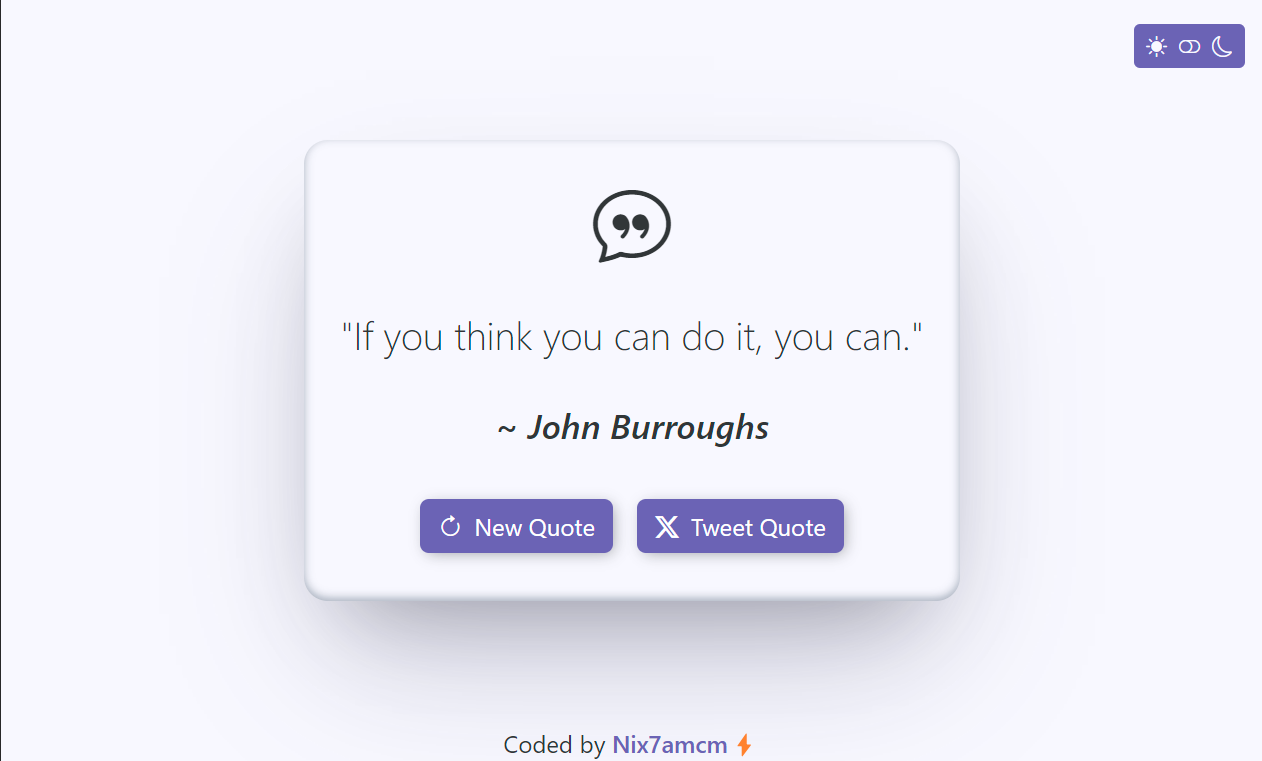
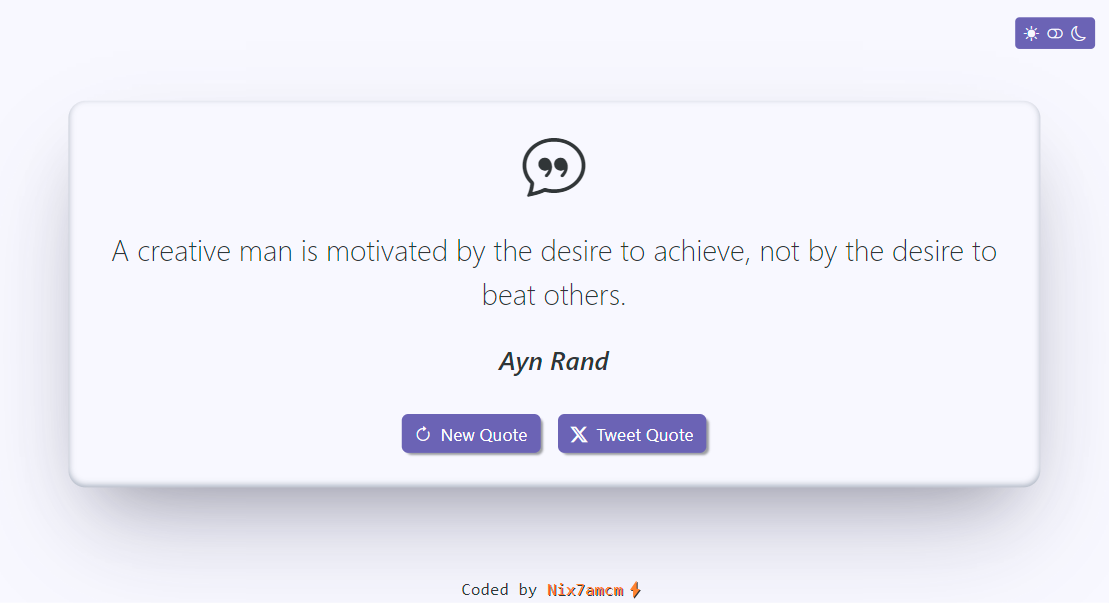
:sparkles: Add loading spinner state function; minor style updates to buttons & footer; update screenshots; remove FCC test cdn link

diff --git a/frontend/src/App.jsx b/frontend/src/App.jsx
@@ -5,8 +5,9 @@ import './styles/App.css';
 import backendURL from './backendURL';
 
 // +++ This is the parent App component that renders the entire app +++ //
-  // >>> It renders the QuoteBox component, which seperately renders the QuoteText, QuoteAuthor, and QuoteButtons components
-  // >>> It also renders the dark/light mode toggle button and the footer
+// >>> It renders the QuoteBox component, which seperately renders the QuoteText, QuoteAuthor, and QuoteButtons components
+// >>> It also renders the dark/light mode toggle button and the footer
+// >>> It passes the loading state to the QuoteText component which renders a spinner while the data is being fetched from the backend
 
 function App () {
 
@@ -14,6 +15,7 @@ function App () {
   const [ quote, setQuote ] = useState( '' );
   const [ author, setAuthor ] = useState( '' );
   const [ darkMode, setDarkMode ] = useState( false );
+  const [ loading, setLoading ] = useState( true );
 
   //_____ Check if values are being received from server:
   /* useEffect(() => {
@@ -27,10 +29,12 @@ function App () {
 
   //_____ Function to fetch a new quote from the backend:
   const fetchQuote = async () => {
+    setLoading( true );
     try {
       const res = await axios.get( backendURL + '/quotes' );
       setQuote( res.data.text );
       setAuthor( res.data.author );
+      setLoading( false );
     } catch ( error ) {
       console.error( error );
     }
@@ -45,7 +49,7 @@ function App () {
   useEffect( () => {
     //--- quote-box box-shadow
     document.documentElement.style.setProperty( '--box-shadow', darkMode ? 'var(--box-shadow-dark)' : 'var(--box-shadow-light)' );
-    
+
     //--- quote-buttons box-shadow
     document.documentElement.style.setProperty( '--quote-buttons-box-shadow', darkMode ? 'var(--quote-buttons-box-shadow-dark)' : 'var(--quote-buttons-box-shadow-light)' );
 
@@ -80,7 +84,7 @@ function App () {
 
         </button>
 
-        <QuoteBox quote={quote} author={author} newQuote={fetchQuote} />
+        <QuoteBox quote={quote} author={author} newQuote={fetchQuote} loading={loading} />
 
       </div>
 

diff --git a/frontend/src/styles/App.css b/frontend/src/styles/App.css
@@ -11,15 +11,20 @@
 /***** Root Variables *****/
 :root {
   /*_____ quote-box box shadow _____*/
-  --box-shadow-light: #32325d40 0px 50px 100px -20px, #0000004d 0px 30px 60px -30px, #0a254059 0px -2px 6px 0px inset;
-  --box-shadow-dark: #9d9dca40 0px 50px 100px -20px, #ffffff4d 0px 30px 60px -30px, #c8dff659 0px -2px 6px 0px inset;;
-  
-  /*_____ quote-buttons box shadow _____*/  
-  --quote-buttons-box-shadow-light: 2px 2px 10px -2px #31363877;  
-  --quote-buttons-box-shadow-dark: 2px 2px 10px -2px #c4c9cb77;
+  --box-shadow-light: #32325d40 0px 50px 100px -20px,
+    #0000004d 0px 30px 60px -30px,
+    #0a254059 0px -2px 6px 0px inset;
+  --box-shadow-dark: #9d9dca40 0px 50px 100px -20px,
+    #ffffff4d 0px 30px 60px -30px,
+    #c8dff659 0px -2px 6px 0px inset;
+  ;
 
-  /*_____ footer link _____*/  
-  --footer-link-color-light: #6b63b5;
+  /*_____ quote-buttons box shadow _____*/
+  --quote-buttons-box-shadow-light: 3px 3px 2px -1px #31363877;
+  --quote-buttons-box-shadow-dark: 3px 3px 2px -1px #c4c9cb77;
+
+  /*_____ footer link _____*/
+  --footer-link-color-light: #ff822e;
   --footer-link-hover-color-light: #433c87;
   --footer-link-active-color-light: #433c87;
   --footer-link-visited-color-light: #9a4eae;
@@ -78,10 +83,15 @@
 }
 
 /***** Footer *****/
+footer {
+  font-family: "Source Code Pro", monospace;
+}
+
 footer a {
-  text-decoration: none;
-  font-weight: 600;
+  /* font-weight: 600; */
   color: var(--footer-link-color);
+  text-shadow: 1px 0.5px 0px #313638;
+  text-decoration: none;
 }
 
 footer a:is(:hover, :focus-visible) {
@@ -92,10 +102,9 @@ footer a:is(:hover, :focus-visible) {
 footer a:active {
   color: var(--footer-link-active-color);
   filter: brightness(150%);
-  text-decoration: none;
+  text-decoration: underline;
 }
 
 footer a:visited {
   color: var(--footer-link-visited-color);
-  text-decoration: underline;
 }

diff --git a/frontend/src/components/QuoteBox/QuoteBox.jsx b/frontend/src/components/QuoteBox/QuoteBox.jsx
@@ -5,16 +5,16 @@ import Buttons from '../QuoteButtons/QuoteButtons';
 import './QuoteBox.css';
 
 // +++ Receives the current quote, author, and fetchQuote function as props from the App component, and passes them down to child components
-// +++ Displays the QuoteText, QuoteAuthor, and Buttons components
+// +++ Displays the QuoteText, QuoteAuthor, and QuoteButtons components
 
-const QuoteBox = ( { quote, author, newQuote } ) => {
+const QuoteBox = ( { quote, author, newQuote, loading } ) => {
   return (
 
     <div id='quote-box' className='quote-box custom-max-w d-flex flex-column mt-4 p-4 gap-4 align-items-center border-5 rounded-4'>
 
       <i class="bi bi-chat-quote display-3"></i>
 
-      <QuoteText quote={quote} />
+      <QuoteText quote={quote} loading={loading} />
       <QuoteAuthor author={author} />
       <Buttons newQuote={newQuote} quote={quote} author={author} />
 

diff --git a/frontend/src/components/QuoteAuthor/QuoteAuthor.jsx b/frontend/src/components/QuoteAuthor/QuoteAuthor.jsx
@@ -1,20 +1,19 @@
 import React from 'react';
 import './QuoteAuthor.css';
 
-// +++ Receives the current author as a prop from the QuoteBox component and displays it +++ //
+// +++ Receives the current author as a prop from the QuoteBox component and displays it. It remains hidden while the data is loading from the backend - a spinner is applied to the QuoteText element to display during the loading state +++ //
 
 const QuoteAuthor = ( { author } ) => {
 
   return (
-
     <p id='author' className='quote-author mb-0 fs-4 fw-medium fst-italic'>
-
-      ~ {author || 'Author should appear here'}
-
+      {/* ~ {author || 'Author should appear here'} */}
+      {/* {!loading ? author : <div className="" role="status">
+        <span className="visually-hidden">Loading...</span>
+      </div>} */}
+      {author}
     </p>
-
   );
-
-}
+};
 
 export default QuoteAuthor;

diff --git a/frontend/src/components/QuoteText/QuoteText.jsx b/frontend/src/components/QuoteText/QuoteText.jsx
@@ -1,18 +1,18 @@
 import React from 'react';
 import './QuoteText.css';
 
-// +++ Receives the current quote as a prop from the QuoteBox component and displays it +++ //
+// +++ Receives the current quote and loading state as props from the QuoteBox component. It displays a spinner while the data is loading and the quote text once it is received from the backend +++ //
 
-const QuoteText = ( { quote } ) => {
+const QuoteText = ( { quote, loading } ) => {
 
   return (
-
     <p id='text' className='quote-text text-center mb-0 fs-3 fw-light'>
-
-      "{quote || 'Quote should appear here'}"
-
+      {/* "{quote || 'Quote should appear here'}" */}
+      {!loading ? quote :
+        <div className='spinner-border mt-4' role='status'>
+          <span className='visually-hidden'>Loading...</span>
+        </div>}
     </p>
-
   );
 
 };

diff --git a/frontend/public/index.html b/frontend/public/index.html
@@ -18,7 +18,7 @@
     <link rel="mask-icon" href="favicon/safari-pinned-tab.svg" color="#5bbad5">
     <meta name="msapplication-TileColor" content="#00aba9">
     <meta name="theme-color" content="#ffffff">    
- 
+
     <link rel="stylesheet" href="https://cdn.jsdelivr.net/npm/bootstrap-icons@1.11.3/font/bootstrap-icons.min.css">
 
     <title>Random Quote Machine</title>
@@ -32,6 +32,6 @@
     <div id="root"></div>
 
     <!-- +++ Remove once passed with FCC -->
-    <script src="https://cdn.freecodecamp.org/testable-projects-fcc/v1/bundle.js"></script>
+    <!-- <script src="https://cdn.freecodecamp.org/testable-projects-fcc/v1/bundle.js"></script> -->
   </body>
 </html>
